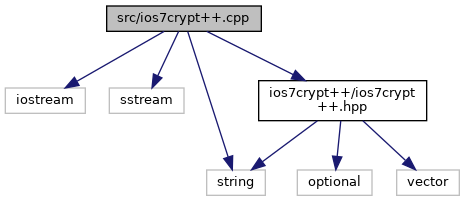
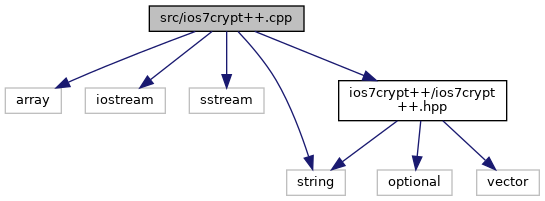
Travis build: 7
Commit: 0c2929982154eb2ad13b265c84589742c118822c

Changed region(s): [[0.0, 0.1493, 0.9935, 0.9851], [0.2108, 0.0, 0.572, 0.1791], [0.6022, 0.6866, 0.6323, 0.7463]]

diff --git a/cpp/ios7crypt_09_09_8hpp_source.html b/cpp/ios7crypt_09_09_8hpp_source.html
@@ -84,9 +84,9 @@ $(function() {
 <div class="line"><a name="l00038"></a><span class="lineno">   38</span>&#160;    std::optional&lt;std::string&gt; <a class="code" href="namespaceios7crypt.html#a4d2a11b682c6205d43d323c9c6dbd9e6">Decrypt</a>(<span class="keyword">const</span> std::string &amp;hash);</div>
 <div class="line"><a name="l00039"></a><span class="lineno">   39</span>&#160;}</div>
 </div><!-- fragment --></div><!-- contents -->
-<div class="ttc" id="anamespaceios7crypt_html_a94d11452ad78613fec78dbbd39a710cf"><div class="ttname"><a href="namespaceios7crypt.html#a94d11452ad78613fec78dbbd39a710cf">ios7crypt::Encrypt</a></div><div class="ttdeci">std::string Encrypt(uint prng_seed, const std::string &amp;password)</div><div class="ttdoc">Encrypt produces Cisco IOSv7 hashes.</div><div class="ttdef"><b>Definition:</b> ios7crypt++.cpp:25</div></div>
+<div class="ttc" id="anamespaceios7crypt_html_a94d11452ad78613fec78dbbd39a710cf"><div class="ttname"><a href="namespaceios7crypt.html#a94d11452ad78613fec78dbbd39a710cf">ios7crypt::Encrypt</a></div><div class="ttdeci">std::string Encrypt(uint prng_seed, const std::string &amp;password)</div><div class="ttdoc">Encrypt produces Cisco IOSv7 hashes.</div><div class="ttdef"><b>Definition:</b> ios7crypt++.cpp:22</div></div>
 <div class="ttc" id="anamespaceios7crypt_html"><div class="ttname"><a href="namespaceios7crypt.html">ios7crypt</a></div><div class="ttdoc">ios7crypt manages legacy Cisco hashes.</div><div class="ttdef"><b>Definition:</b> ios7crypt++.hpp:20</div></div>
-<div class="ttc" id="anamespaceios7crypt_html_a4d2a11b682c6205d43d323c9c6dbd9e6"><div class="ttname"><a href="namespaceios7crypt.html#a4d2a11b682c6205d43d323c9c6dbd9e6">ios7crypt::Decrypt</a></div><div class="ttdeci">std::optional&lt; std::string &gt; Decrypt(const std::string &amp;hash)</div><div class="ttdoc">Decrypt reverses Cisco IOSv7 hashes.</div><div class="ttdef"><b>Definition:</b> ios7crypt++.cpp:46</div></div>
+<div class="ttc" id="anamespaceios7crypt_html_a4d2a11b682c6205d43d323c9c6dbd9e6"><div class="ttname"><a href="namespaceios7crypt.html#a4d2a11b682c6205d43d323c9c6dbd9e6">ios7crypt::Decrypt</a></div><div class="ttdeci">std::optional&lt; std::string &gt; Decrypt(const std::string &amp;hash)</div><div class="ttdoc">Decrypt reverses Cisco IOSv7 hashes.</div><div class="ttdef"><b>Definition:</b> ios7crypt++.cpp:42</div></div>
 <!-- start footer part -->
 <hr class="footer"/><address class="footer"><small>
 Generated by &#160;<a href="http://www.doxygen.org/index.html">

diff --git a/cpp/ios7crypt_09_09_8cpp.html b/cpp/ios7crypt_09_09_8cpp.html
@@ -69,7 +69,8 @@ $(function() {
 <div class="title">ios7crypt++.cpp File Reference</div>  </div>
 </div><!--header-->
 <div class="contents">
-<div class="textblock"><code>#include &lt;iostream&gt;</code><br />
+<div class="textblock"><code>#include &lt;array&gt;</code><br />
+<code>#include &lt;iostream&gt;</code><br />
 <code>#include &lt;sstream&gt;</code><br />
 <code>#include &lt;string&gt;</code><br />
 <code>#include &quot;<a class="el" href="ios7crypt_09_09_8hpp_source.html">ios7crypt++/ios7crypt++.hpp</a>&quot;</code><br />
@@ -78,13 +79,14 @@ Include dependency graph for ios7crypt++.cpp:</div>
 <div class="dyncontent">
 <div class="center"><img src="ios7crypt_09_09_8cpp__incl.png" border="0" usemap="#src_2ios7crypt_09_09_8cpp" alt=""/></div>
 <map name="src_2ios7crypt_09_09_8cpp" id="src_2ios7crypt_09_09_8cpp">
-<area shape="rect" title=" " alt="" coords="107,5,261,32"/>
-<area shape="rect" title=" " alt="" coords="5,87,85,114"/>
-<area shape="rect" title=" " alt="" coords="109,87,184,114"/>
-<area shape="rect" title=" " alt="" coords="207,169,265,196"/>
-<area shape="rect" href="ios7crypt_09_09_8hpp.html" title=" " alt="" coords="259,80,427,121"/>
-<area shape="rect" title=" " alt="" coords="297,169,372,196"/>
-<area shape="rect" title=" " alt="" coords="397,169,459,196"/>
+<area shape="rect" title=" " alt="" coords="149,5,304,32"/>
+<area shape="rect" title=" " alt="" coords="5,87,61,114"/>
+<area shape="rect" title=" " alt="" coords="85,87,165,114"/>
+<area shape="rect" title=" " alt="" coords="189,87,264,114"/>
+<area shape="rect" title=" " alt="" coords="287,169,345,196"/>
+<area shape="rect" href="ios7crypt_09_09_8hpp.html" title=" " alt="" coords="339,80,507,121"/>
+<area shape="rect" title=" " alt="" coords="377,169,452,196"/>
+<area shape="rect" title=" " alt="" coords="477,169,539,196"/>
 </map>
 </div>
 </div></div><!-- contents -->

diff --git a/README.md b/README.md
@@ -1,1 +1,1 @@
-Wed 24 Feb 2021 12:10:48 AM UTC
+Wed 24 Feb 2021 12:28:29 AM UTC
